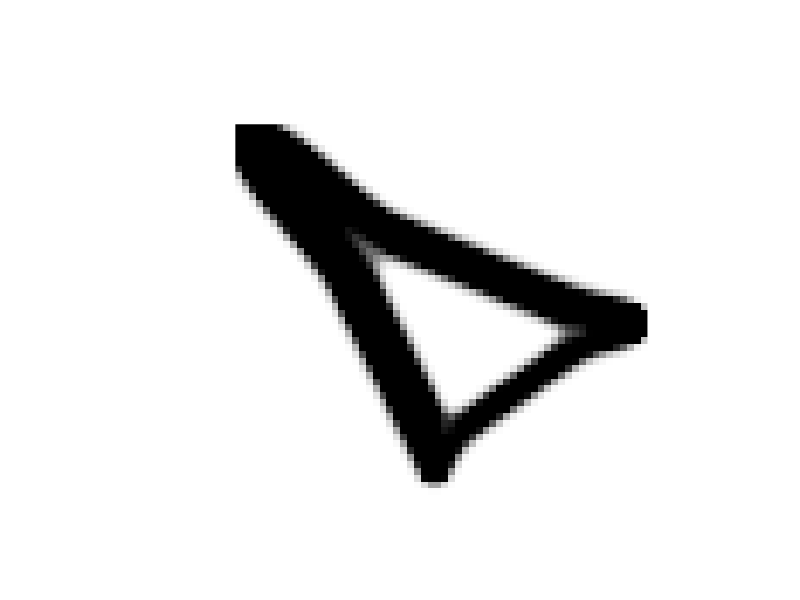
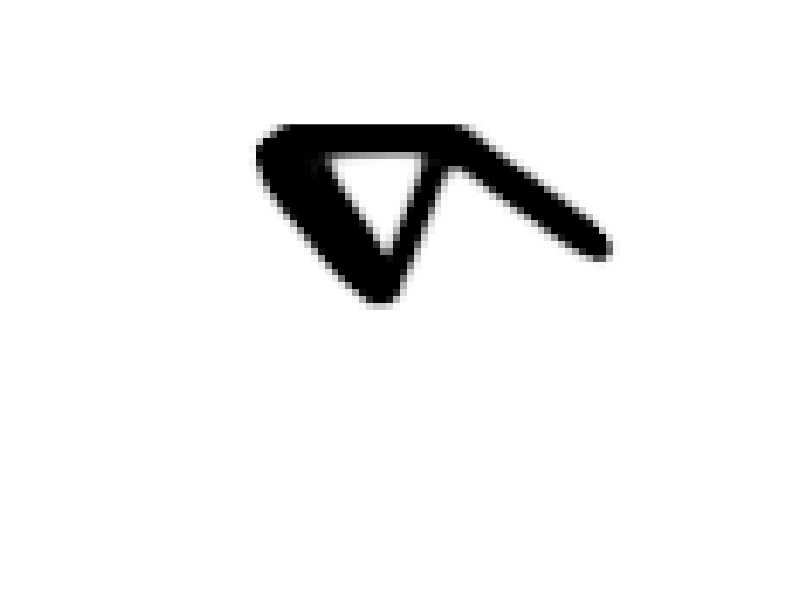
FINISHED?!

Changed region(s): [[0.2812, 0.18, 0.8125, 0.84]]

diff --git a/lab_6/solution.py b/lab_6/solution.py
@@ -1,7 +1,7 @@
 #!/usr/bin/python
 
 from digifab import *
-from solution_lab5 import * #importing the SynthFourBar class
+#from solution_lab5 import * #importing the SynthFourBar class
 import numpy
 import solid
 
@@ -14,17 +14,6 @@ def pts_to_vec (pt_a, pt_b):
   end = numpy.asarray(pt_b)
   vec = end - start
   return vec
-
-###################################
-
-# IMPORTING MECHANISMS #
-gripper_r_arm = SynthFourBar(B = 35+18.52j, D = 84.15 + 52.93j, P= (100+237.1j, 76.95+244.45j, 53+250j, 28.6+253.3j, 4+254.73j)) #the solution is gripper_r_arm.children[0]
-gripper_arm = gripper_r_arm.children[0]
-
-robot_leg = SynthFourBar(B= 0+80j, D= 0+20j, P= pattern(0.5, 10+0j)) #the solution is robot_leg.children[1]
-robot_leg = robot_leg.children[1]
-
-###################################
 
 
 # AUXILIAR FUNCTION #
@@ -119,18 +108,31 @@ def dummy_arm(name):
 def dumb_coordinates(cList, bounds, dim):
   bound0 = bounds[0]
   bound1 = bounds[1]
- 	ret = []
- 	dim = dim + 1
- 	for c in cList:
- 		gX = numpy.floor( [(c[0]-bound0[0])/(bound1[1]-bound0[0])*dim] )[0]
- 		gY = numpy.floor( [(c[1]-bound0[1])/(bound1[1]-bound0[1])*dim] )[0]
- 		ret.append(dim*(gx + 1) + (dim-gY))
- 	return ret
+  ret = []
+  dim = dim + 1
+  for c in cList:
+    gX = numpy.round( (c[0]-bound0[0])/(bound1[1]-bound0[0])*dim )
+    gY = numpy.round( (c[1]-bound0[1])/(bound1[1]-bound0[1])*dim )
+    ret.append(dim*(gX) + gY)
+  return ret
 
 # EDITED - Casey ##################
 
 if __name__ == '__main__':
+
+  ###################################
+
+  # IMPORTING MECHANISMS #
+  #gripper_r_arm = SynthFourBar(B = 35+18.52j, D = 84.15 + 52.93j, P= (100+237.1j, 76.95+244.45j, 53+250j, 28.6+253.3j, 4+254.73j)) #the solution is gripper_r_arm.children[0]
+  #gripper_arm = gripper_r_arm.children[0]
+
+  #robot_leg = SynthFourBar(B= 0+80j, D= 0+20j, P= pattern(0.5, 10+0j)) #the solution is robot_leg.children[1]
+  #robot_leg = robot_leg.children[1]
+
+  ###################################
+
   p = PolyLine(filename='ternary_link_020.png')
   p.show()
-  bot_leg_joints_bb = joints_bb_coord(robot_leg)
-  print dumb_coordinates(bot_leg_joints_bb[0], bot_leg_joints_bb[1], 60)
+  #bot_leg_joints_bb = joints_bb_coord(robot_leg)
+  #print bot_leg_joints_bb[0]
+  #print dumb_coordinates(bot_leg_joints_bb[0], bot_leg_joints_bb[1], 60)
